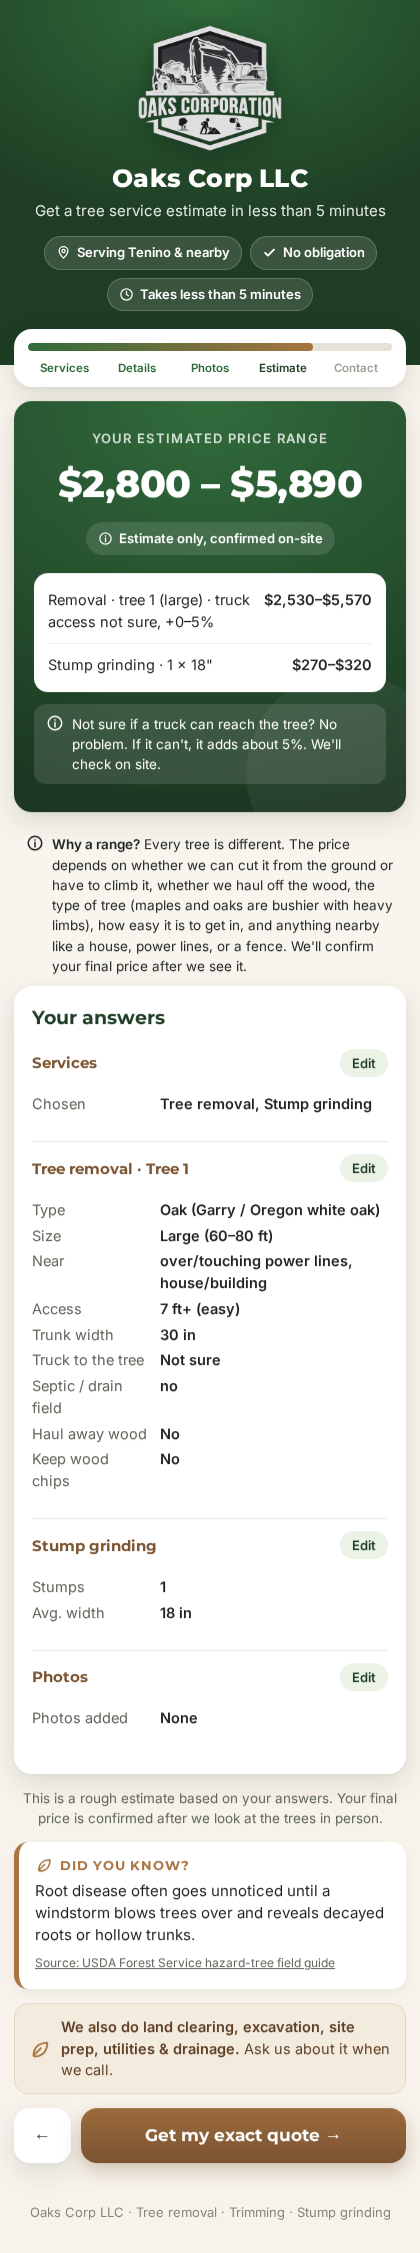
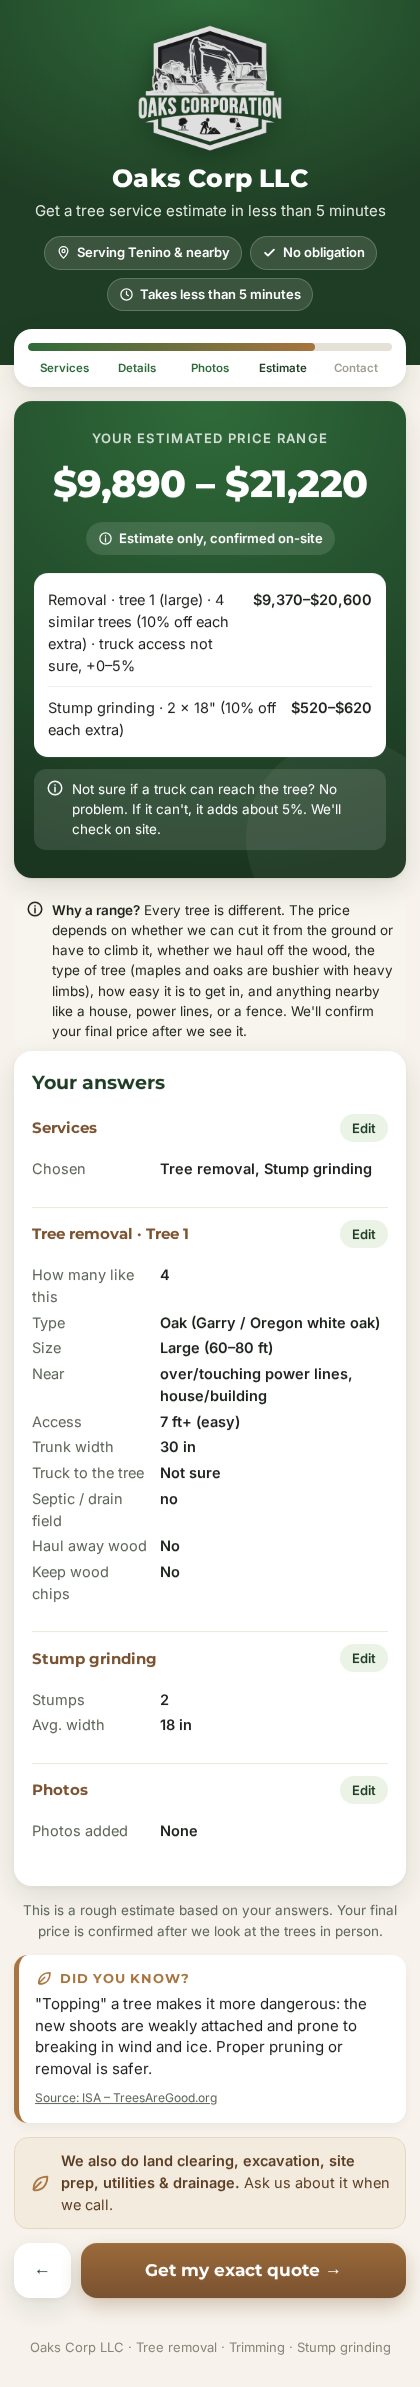
Similar trees count, 10% off extras

Changed region(s): [[0.0, 0.0, 1.0, 0.9632], [0.3405, 0.466, 0.8976, 0.6525]]

diff --git a/index.html b/index.html
@@ -14,6 +14,8 @@
    ===================================================================== */
 const PRICES = {
   jobMinimum: 450,
+  extraSimilar: 0.90, // each extra similar tree/stump = 90% of the first (10% off)
+  maxSimilar: 20,
   removal: {
     small:  [700, 900],   // under 30 ft
     medium: [1000, 1400], // 30–60 ft
@@ -265,6 +267,7 @@ const typeName=t=>{const v=t.querySelector('.ttype').value;return v==='other'?(t
 function addTree(type){const list=$(type==='removal'?'removalList':'trimList');const el=document.createElement('div');el.className='tree';el.dataset.type=type;
  el.innerHTML=`<div class="tree-h"><h3>Tree ${list.children.length+1}</h3><button class="x" type="button">Remove</button></div>
  ${type==='trimming'?`<span class="fl">How much trimming?</span>${seg('amt',[['full','Full trim','shape / thin the tree'],['branch','Just a branch or two','usually around $450']])}`:''}
+ <span class="fl">How many trees like this one?</span><div class="stepper"><button type="button" class="qm">−</button><input class="tqty" type="number" value="1" min="1" max="20" inputmode="numeric"><button type="button" class="qp">+</button></div>
  <span class="fl">Size</span>${seg('size',[['small','Small','under 30 ft'],['medium','Medium','30–60 ft'],['large','Large','60–80 ft'],['xl','Extra large','80–100 ft'],['huge','Huge','100 ft+']])}
  <span class="fl">Trunk width (diameter), inches <span class="hint">Optional</span></span><input type="number" class="tdia" min="1" inputmode="numeric" placeholder="e.g. 20">
  <div class="tip"><svg><use href="#i-info"/></svg><span><b>How to measure:</b> about 5 ft off the ground, wrap a tape around the trunk and divide by 3.14. Or just estimate. Rough guide: medium 16–26 in, large 26–36, extra large 36–48, huge 48+.</span></div>
@@ -282,6 +285,7 @@ function addTree(type){const list=$(type==='removal'?'removalList':'trimList');c
  <span class="fl">Do you want to keep the wood chips?</span>${seg('chips',[['no','No','we take them'],['yes','Yes','leave them']])}
  <span class="fl">Notes about this tree (optional)</span><textarea class="tnotes" rows="2" placeholder="Species, leaning, dead limbs, anything else"></textarea>`;
  el.querySelector('.x').onclick=()=>{el.remove();[...list.children].forEach((t,i)=>t.querySelector('h3').textContent='Tree '+(i+1))};
+ const q=el.querySelector('.tqty'),qs=d=>q.value=Math.min(20,Math.max(1,(+q.value||1)+d));el.querySelector('.qm').onclick=()=>qs(-1);el.querySelector('.qp').onclick=()=>qs(1);
  el.querySelector('.ttype').onchange=e=>{el.querySelector('.tother').style.display=e.target.value==='other'?'block':'none'};
  el.querySelectorAll('.multi').forEach(g=>g.onclick=e=>{const b=e.target.closest('button');if(!b)return;
   if(b.dataset.x){g.querySelectorAll('button').forEach(x=>x.classList.toggle('sel',x===b))}else{b.classList.toggle('sel');g.querySelectorAll('[data-x]').forEach(x=>x.classList.remove('sel'));
@@ -324,7 +328,7 @@ const SVC={removal:'Tree removal',trimming:'Tree trimming',stump:'Stump grinding
 function summary(done){let h='<h3>Your answers</h3>';
  h+=grp('Services',1,kv([['Chosen',[...sel].map(v=>SVC[v]).join(', ')]]),done);
  treeInfo.forEach((t,i)=>{h+=grp(`${SVC[t.service]} · Tree ${treeInfo.slice(0,i+1).filter(x=>x.service===t.service).length}`,2,kv([
-  ['Type',t.treeType],['Size',{small:'Small (under 30 ft)',medium:'Medium (30–60 ft)',large:'Large (60–80 ft)',xl:'Extra large (80–100 ft)',huge:'Huge (100 ft+)'}[t.size]],
+  ['How many like this',t.count],['Type',t.treeType],['Size',{small:'Small (under 30 ft)',medium:'Medium (30–60 ft)',large:'Large (60–80 ft)',xl:'Extra large (80–100 ft)',huge:'Huge (100 ft+)'}[t.size]],
   ['Near',t.near.map(v=>LBL[v]).join(', ')],['Access',LBL[t.access]+(t.gateWidthFt?` · gate ${t.gateWidthFt} ft`:'')],
   ['Trunk width',t.diameterIn?t.diameterIn+' in':''],['Trimming',t.amount==='branch'?'Just a branch or two':(t.service==='trimming'?'Full trim':'')],['Truck to the tree',{yes:'Yes',no:'No',unsure:'Not sure'}[t.truck]],['Septic / drain field',t.septic.map(v=>LBL[v]).join(' + ')],['Haul away wood',t.haulAway?'Yes':'No'],['Keep wood chips',t.keepChips?'Yes, leave them':'No'],['Notes',t.notes]]),done)});
  if(sel.has('stump'))h+=grp('Stump grinding',2,kv([['Stumps',$('stumpCount').value],['Avg. width',$('stumpDia').value+' in']]),done);
@@ -346,13 +350,14 @@ function calc(){let lo=0,hi=0;const lines=[];treeInfo=[];septicFlag=false;truckF
   const gw=t.querySelector('.gwidth').value,haul=t.querySelector('.haul').checked,chips=val(t,'chips')==='yes',truck=val(t,'truck');if(truck==='unsure')truckFlag=true;
   const tm=PRICES.treeType[t.querySelector('.ttype').value]||1;
   const m=i=>tm*(1+hz(i)+PRICES.access[acc][i]+PRICES.truck[truck][i]+(sepYes?PRICES.septic[i]:0)+(haul?PRICES.haulAway[i]:0));
-  const tl=b[0]*m(0),th=b[1]*m(1);
-  const name=`${NAMES[t.dataset.type]} · ${t.querySelector('h3').textContent.toLowerCase()} (${amt==='branch'?'a branch or two':NAMES[size]})${truck==='no'?' · no truck access +5%':truck==='unsure'?' · truck access not sure, +0–5%':''}`;
-  treeInfo.push({service:t.dataset.type,size,heightSize:hs,diameterIn:dia||null,amount:amt,treeType:typeName(t),near:near.length?near:['open'],access:acc,gateWidthFt:gw||null,septic:sep,haulAway:haul,keepChips:chips,truck,notes:t.querySelector('.tnotes').value,range:fmt(tl)+'–'+fmt(th)});
+  const n=Math.min(PRICES.maxSimilar,Math.max(1,Math.round(+t.querySelector('.tqty').value||1))),qf=1+PRICES.extraSimilar*(n-1);
+  const tl=b[0]*m(0)*qf,th=b[1]*m(1)*qf;
+  const name=`${NAMES[t.dataset.type]} · ${t.querySelector('h3').textContent.toLowerCase()} (${amt==='branch'?'a branch or two':NAMES[size]})${n>1?` · ${n} similar trees (10% off each extra)`:''}${truck==='no'?' · no truck access +5%':truck==='unsure'?' · truck access not sure, +0–5%':''}`;
+  treeInfo.push({service:t.dataset.type,size,heightSize:hs,diameterIn:dia||null,amount:amt,treeType:typeName(t),near:near.length?near:['open'],access:acc,gateWidthFt:gw||null,septic:sep,haulAway:haul,keepChips:chips,truck,count:n,notes:t.querySelector('.tnotes').value,range:fmt(tl)+'–'+fmt(th)});
   lo+=tl;hi+=th;lines.push([name,fmt(tl)+'–'+fmt(th)])});
  if(sel.has('stump')){const c=Math.max(1,+$('stumpCount').value||1),d=Math.max(1,+$('stumpDia').value||1),s=PRICES.stump;
-  const sl=c*Math.max(s.minimumPerStump,d*s.perInchDiameter[0]),sh=c*Math.max(s.minimumPerStump,d*s.perInchDiameter[1]);
-  lo+=sl;hi+=sh;lines.push([`Stump grinding · ${c} × ${d}"`,fmt(sl)+'–'+fmt(sh)])}
+  const one=i=>Math.max(s.minimumPerStump,d*s.perInchDiameter[i]),sq=i=>one(i)+(c-1)*Math.max(s.minimumPerStump,one(i)*PRICES.extraSimilar);const sl=sq(0),sh=sq(1);
+  lo+=sl;hi+=sh;lines.push([`Stump grinding · ${c} × ${d}"${c>1?' (10% off each extra)':''}`,fmt(sl)+'–'+fmt(sh)])}
  if(lo<PRICES.jobMinimum){lo=PRICES.jobMinimum;lines.push(['Job minimum',fmt(PRICES.jobMinimum)])}
  hi=Math.max(hi,lo);
  if(photos.length)lines.push(['Photos attached',photos.length]);
